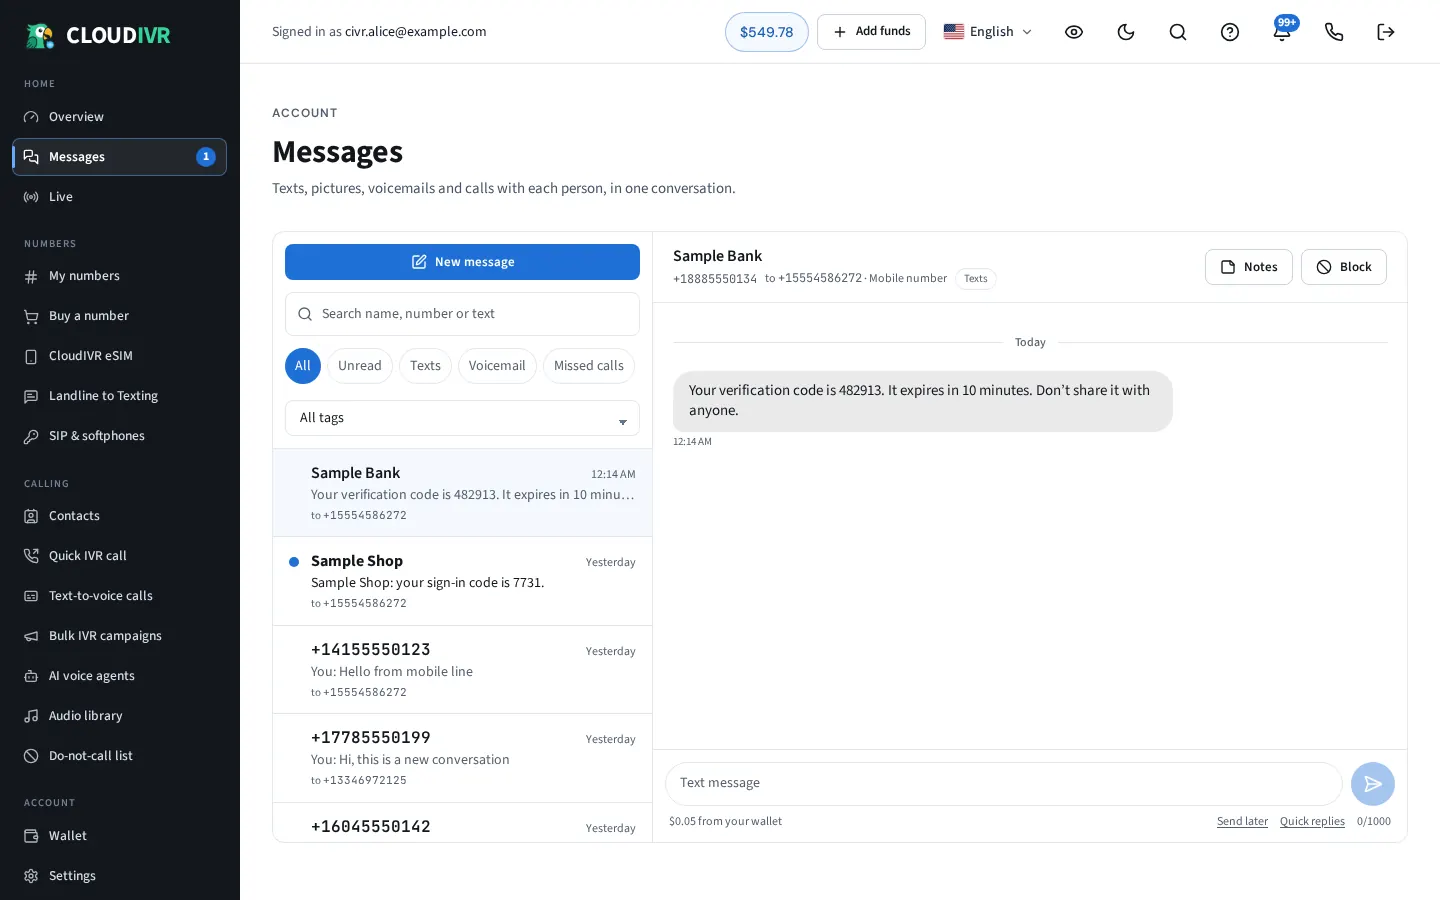
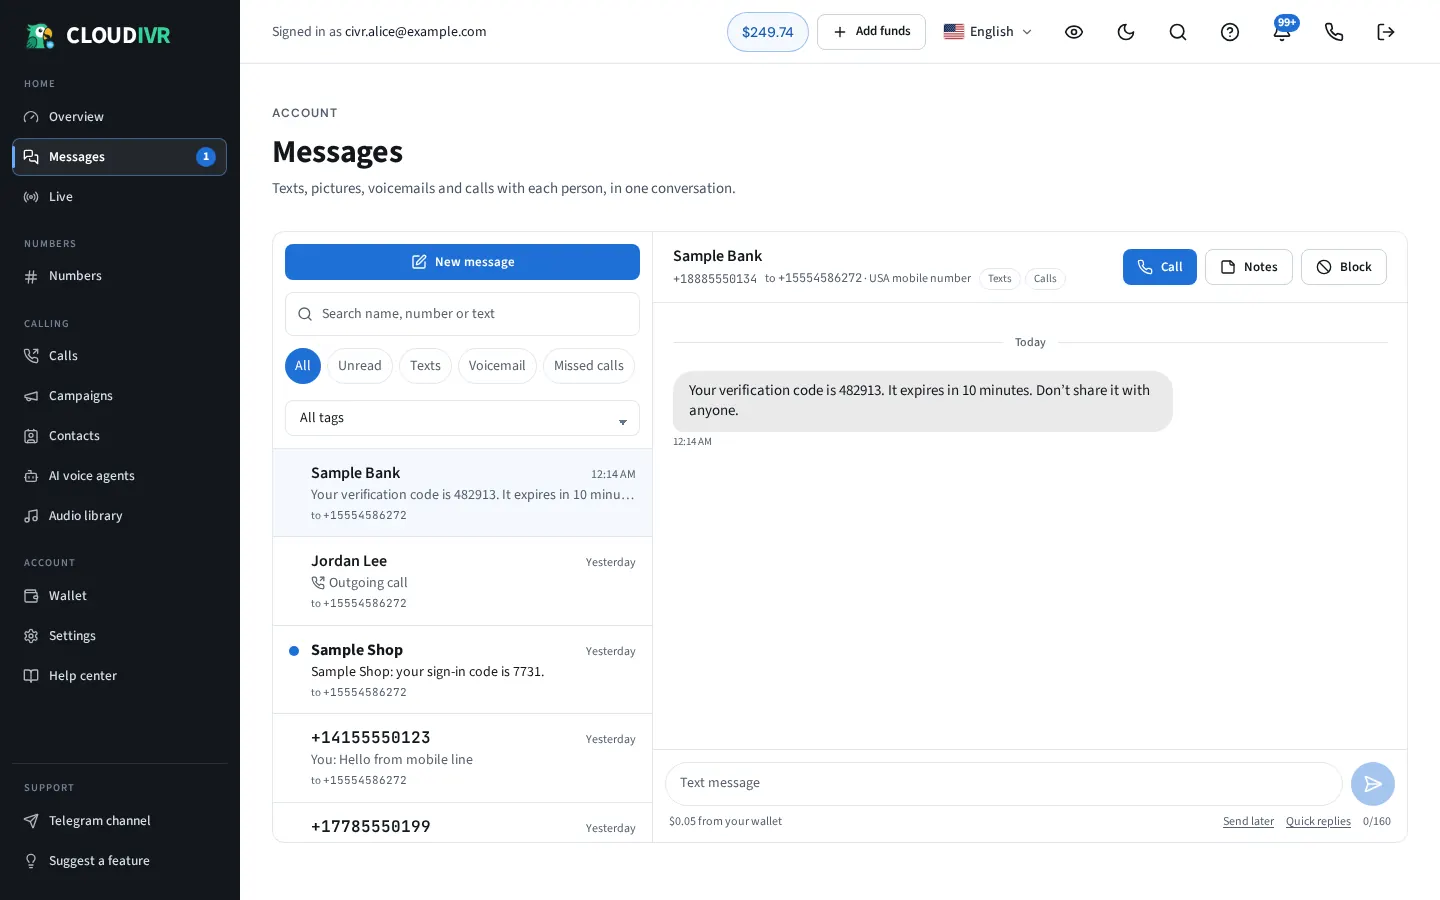
## Texts are now capped at one SMS, and the landing page is cleaner (preview)
- **Text length:** every text CloudIVR sends is intended to be limited to one standard SMS: 160 characters, or 70 when it has emoji or special scripts.
  - This covers the USA mobile number, calling-number and Landline-to-Texting replies, scheduled texts, IVR "text the caller" messages and AI suggested replies.
  - The counter shows N/160 (or N/70) and turns red when the text is too long, blocking sending until it's shortened.
  - Curly quotes, long dashes and "…" (which phones add on their own) are sent as plain characters, helping avoid dropping the limit to 70.
- **Landing page:** I have made improvements by removing repeated elements:
  - The separate USA eSIM / USA mobile number / Business calling links from the top menu (since they're included in the Products menu)
  - The second eSIM section, "Three ways to reach your customers" section and the "Pick your situation" section
  - Overview and Keypad menu screenshots from the "after you order" gallery, as the business section already shows them
  - Duplicate links on the phone menu
  - Retook the app screenshot of Messages which now shows 0/160.
- **Testing:** I have conducted automated checks which passed fully on both server and screens. The follow-up fixes, including punctuation handling, the phone menu, smaller gallery and new screenshot, have been verified as well. Line breaks in scheduled texts are being kept.
[…]

diff --git a/frontend/src/cloudivr/pages/landing/Nav.js b/frontend/src/cloudivr/pages/landing/Nav.js
@@ -11,7 +11,7 @@ import { PRODUCTS, USE_CASES, goTo, hrefOf } from './menu';
 
 export const LANDING_LINKS = [['#esim-card', 'USA eSIM', 'esim'], ['#mobile', 'USA mobile number', 'mobile'], ['#business', 'Business calling', 'business'], ['#pricing', 'Pricing', 'pricing'], ['#faq', 'Help', 'faq']];
 // Products mega menu groups (ids from menu.js PRODUCTS).
-const GROUPS = [['Calling & IVR', ['numbers', 'ivr', 'campaigns', 'phone', 'ai', 'text', 'inbox'], 'calling'], ['Texting', ['hosted'], 'texting'], ['USA eSIM & mobile number', ['esim', 'mobile'], 'mobile']];
+const GROUPS = [['Calling & IVR', ['numbers', 'ivr', 'campaigns', 'phone', 'ai', 'text', 'inbox'], 'calling'], ['Texting & mobile', ['esim', 'mobile', 'hosted'], 'mobile']];
 const MENUS = [['products', 'Products', PRODUCTS], ['usecases', 'Use cases', USE_CASES]];
 
 function Item({ it, onPick, testid }) {
@@ -57,7 +57,7 @@ function MobileMenu({ catalog, onClose, account }) {
     <div className="lg:hidden fixed inset-x-0 top-16 bottom-0 z-[45] bg-white text-slate-900 overflow-y-auto civr-l-swap" data-testid="landing-mobile-menu">
       <div className="px-4 sm:px-6 py-6 flex flex-col gap-8">
         <div className="flex flex-col border-b border-slate-200 pb-4">
-          {[...LANDING_LINKS, ['#try', 'Free test call', 'try']].map(([href, label, id]) => <a key={id} href={href} onClick={(e) => { goTo(href, e); onClose(); }} className="px-3 py-3 text-base font-medium text-slate-700" data-testid={`mobile-menu-link-${id}`}>{label}</a>)}
+          {[...LANDING_LINKS.filter(([, , id]) => id !== 'esim' && id !== 'mobile'), ['#try', 'Free test call', 'try']].map(([href, label, id]) => <a key={id} href={href} onClick={(e) => { goTo(href, e); onClose(); }} className="px-3 py-3 text-base font-medium text-slate-700" data-testid={`mobile-menu-link-${id}`}>{label}</a>)}
         </div>
         {MENUS.map(([id, label, items]) => (
           <div key={id}>

diff --git a/js/cloudivr-web/sms-limit.js b/js/cloudivr-web/sms-limit.js
@@ -3,9 +3,12 @@
 // scripts). The GSM extension characters (^{}\[~]|€) count as 2.
 const GSM = new Set('@£$¥èéùìòÇ\nØø\rÅåΔ_ΦΓΛΩΠΨΣΘΞÆæßÉ !"#¤%&\'()*+,-./0123456789:;<=>?¡ABCDEFGHIJKLMNOPQRSTUVWXYZÄÖÑÜ§¿abcdefghijklmnopqrstuvwxyzäöñüà')
 const EXT = new Set('^{}\\[~]|€')
+// Phones insert smart punctuation; swap it for the plain GSM version so the text still fits 160.
+const SMART = { '‘': "'", '’': "'", '‚': "'", '′': "'", '“': '"', '”': '"', '„': '"', '″': '"', '–': '-', '—': '-', '−': '-', '…': '...', '\u00a0': ' ', '\u2009': ' ', '\u200b': '' }
+const gsmText = (t) => String(t || '').replace(/[‘’‚′“”„″–—−…\u00a0\u2009\u200b]/g, (c) => SMART[c])
 
 function smsInfo(text) {
-  const s = String(text || '')
+  const s = gsmText(text)
   let units = 0, gsm = true
   for (const ch of s) {
     if (GSM.has(ch)) units += 1
@@ -28,4 +31,4 @@ function fitSms(text) {
   return s
 }
 
-module.exports = { smsInfo, smsTooLong, fitSms }
+module.exports = { smsInfo, smsTooLong, fitSms, gsmText }

diff --git a/frontend/src/cloudivr/pages/landing/Showcase.js b/frontend/src/cloudivr/pages/landing/Showcase.js
@@ -1,14 +1,12 @@
 import React, { useState } from 'react';
-import { MessageSquareText, Hash, Smartphone, LayoutGrid, LayoutDashboard } from 'lucide-react';
+import { MessageSquareText, Hash, Smartphone } from 'lucide-react';
 import { Reveal } from './kit';
 
 const SHOT = (n, v) => `${process.env.PUBLIC_URL || ''}/cloudivr/shots/${n}-${v}.webp`;
 const SHOTS = [
-  ['messages', MessageSquareText, 'Messages', 'Codes and texts arrive in one inbox, in any browser.'],
+  ['messages', MessageSquareText, 'Messages', 'Two-way texts arrive in one inbox, in any browser.'],
   ['numbers', Hash, 'My numbers', 'Your USA mobile number, renewal and replacement in one place.'],
   ['esim', Smartphone, 'eSIM', 'The QR code to install your eSIM, plus plan and renewal.'],
-  ['ivr', LayoutGrid, 'Keypad menu', 'Callers press a key to reach a person, a message or a text.'],
-  ['overview', LayoutDashboard, 'Overview', 'Wallet, numbers and recent activity at a glance.'],
 ];
 
 // Real light-mode screenshots of the app (sample data); phones get the phone-sized capture.

diff --git a/frontend/src/cloudivr/smsLimit.js b/frontend/src/cloudivr/smsLimit.js
@@ -1,9 +1,12 @@
 // Same rule as the server (js/cloudivr-web/sms-limit.js): 160 GSM-7 characters per text, or 70 with emoji/Unicode.
 const GSM = new Set('@£$¥èéùìòÇ\nØø\rÅåΔ_ΦΓΛΩΠΨΣΘΞÆæßÉ !"#¤%&\'()*+,-./0123456789:;<=>?¡ABCDEFGHIJKLMNOPQRSTUVWXYZÄÖÑÜ§¿abcdefghijklmnopqrstuvwxyzäöñüà');
 const EXT = new Set('^{}\\[~]|€');
+// Smart punctuation is sent as the plain GSM version (the server does the same), so it still fits 160.
+const SMART = { '‘': "'", '’': "'", '‚': "'", '′': "'", '“': '"', '”': '"', '„': '"', '″': '"', '–': '-', '—': '-', '−': '-', '…': '...', '\u00a0': ' ', '\u2009': ' ', '\u200b': '' };
+const gsmText = (t) => String(t || '').replace(/[‘’‚′“”„″–—−…\u00a0\u2009\u200b]/g, (c) => SMART[c]);
 
 export function smsInfo(text) {
-  const s = String(text || '');
+  const s = gsmText(text);
   let units = 0;
   for (const ch of s) {
     if (GSM.has(ch)) units += 1;

diff --git a/js/cloudivr-web/messages-extra.js b/js/cloudivr-web/messages-extra.js
@@ -1,5 +1,5 @@
 'use strict'
-const { smsTooLong, fitSms } = require('./sms-limit')
+const { smsTooLong, fitSms, gsmText } = require('./sms-limit')
 // Messages extras: contact notes + tags, scheduled texts, and AI summaries with suggested replies on long conversations.
 const axios = require('axios')
 const crypto = require('crypto')
@@ -57,7 +57,7 @@ function create({ db, M, log = console.log }) {
     const t = await M.thread(chatId, number, contact)
     if (!t) return { error: 'Conversation not found.' }
     if (!t.canText || t.blocked) return { error: 'You can’t text this contact from here.' }
-    const body = String(text || '').replace(/\s+/g, ' ').trim()
+    const body = gsmText(String(text || '')).replace(/[^\S\n]+/g, ' ').trim()
     if (!body && !media.length) return { error: 'Type a message.' }
     const long = smsTooLong(body)
     if (long) return { error: long }

diff --git a/js/hosted-sms.js b/js/hosted-sms.js
@@ -434,7 +434,7 @@ async function sendText(chatId, id, to, text) {
   return { error: 'This number receives texts only. Your customers text it and you read them here.', code: 'receive_only' }
   if (d.status !== 'active') return { error: d.status === 'paused' ? (d.planNumber ? `Texting is paused because the plan on ${d.planNumber} isn’t active. Renew the plan and it turns back on.` : `Texting is paused — the $${monthlyOf(d)} monthly fee is due. Top up your wallet.`) : 'This number isn’t active for texting yet.' }
   const dest = normPhone(to)
-  const body = String(text || '').trim()
+  const body = require('./cloudivr-web/sms-limit').gsmText(String(text || '').trim())
   if (!E164.test(dest)) return { error: 'Enter the number to text with its country code.' }
   if (!body) return { error: 'Type a message.' }
   const long = require('./cloudivr-web/sms-limit').smsTooLong(body)

diff --git a/js/spenza.js b/js/spenza.js
@@ -430,7 +430,7 @@ async function sendSms(chatId, id, to, text) {
   const d = await mine(chatId, id)
   if (d && d.kind !== 'mobile') return { error: 'Texts from a QR eSIM are sent from your phone, not from CloudIVR.' }
   if (!d || d.status !== 'active' || !d.phoneNumber) return { error: 'This number can’t send texts right now.' }
-  const dest = String(to || '').replace(/[^\d+]/g, ''), body = String(text || '').trim()
+  const dest = String(to || '').replace(/[^\d+]/g, ''), body = require('./cloudivr-web/sms-limit').gsmText(String(text || '').trim())
   const long = require('./cloudivr-web/sms-limit').smsTooLong(body)
   if (long) return { error: long }
   if (!/^\+1[2-9]\d{2}[2-9]\d{6}$/.test(dest)) return { error: 'Texts can go to USA numbers: enter +1 and the 10-digit number.' }

diff --git a/js/cloudivr-web/numbers.js b/js/cloudivr-web/numbers.js
@@ -191,7 +191,7 @@ function validateIvr(body, plan, audioOk = () => true) {
         out[digit] = { action, message: String(o.message || '').slice(0, 1000), audioUrl: audio(o.audioUrl, `Key ${digit}`), label }
       } else if (action === 'sms') {
         const smsFrom = String(o.smsFrom || '')
-        const smsText = String(o.smsText || '').trim().slice(0, 1000)
+        const smsText = require('./sms-limit').gsmText(String(o.smsText || '').trim()).slice(0, 1000)
         if (!/^(es|mn)_[0-9a-f]+$/.test(smsFrom)) throw new Error(`Key ${digit}: pick the number the text is sent from.`)
         if (!smsText) throw new Error(`Key ${digit}: write the text to send.`)
         const long = require('./sms-limit').smsTooLong(smsText)

diff --git a/scripts/clean_test_texts.js b/scripts/clean_test_texts.js
@@ -1,0 +1,13 @@
+// Removes tester-made texts (TEST_ prefix) from Alice's sample data so landing screenshots stay clean.
+require('dotenv').config({ path: '/app/backend/.env' })
+const { MongoClient } = require('mongodb')
+;(async () => {
+  const c = await MongoClient.connect(process.env.MONGO_URL); const db = c.db(process.env.DB_NAME)
+  for (const n of await db.listCollections().toArray()) {
+    for (const f of ['text', 'body', 'message', 'Message_Body']) {
+      const r = await db.collection(n.name).deleteMany({ [f]: { $regex: '^TEST_' } }).catch(() => ({ deletedCount: 0 }))
+      if (r.deletedCount) console.log(n.name, f, r.deletedCount)
+    }
+  }
+  await c.close(); process.exit(0)
+})()

diff --git a/js/cloudivr-web/sms-reply.js b/js/cloudivr-web/sms-reply.js
@@ -122,7 +122,7 @@ function createSmsReply({ db, voiceService, log = console.log }) {
 
   // → { log } | { error: [status, code, message] }
   async function send({ chatId, num, to, text, simulated = false, replyTo = null, inboxId = null, media = [] }) {
-    const body = clean(text)
+    const body = require('./sms-limit').gsmText(clean(text))
     if (!body && !media.length) return { error: [400, 'empty', 'Type a reply or pick one.'] }
     if (media.length && !canMms(num)) return { error: [400, 'no_mms', 'This number can’t send pictures.'] }
     const long = require('./sms-limit').smsTooLong(body)

diff --git a/backend/tests/test_cloudivr_iter203_sms_limit.py b/backend/tests/test_cloudivr_iter203_sms_limit.py
@@ -1,0 +1,99 @@
+# Iteration 203: one-SMS length limit (160 GSM-7 / 70 Unicode) on messages send, schedule, thread maxLength, IVR keypad text
+import os
+import subprocess
+from datetime import datetime, timedelta, timezone
+import pytest
+import requests
+from dotenv import dotenv_values
+from pymongo import MongoClient
+
+FE_ENV = dotenv_values('/app/frontend/.env')
+BASE_URL = (os.environ.get('REACT_APP_BACKEND_URL') or FE_ENV['REACT_APP_BACKEND_URL']).rstrip('/')
+API = f"{BASE_URL}/api/cloudivr-web"
+BE_ENV = dotenv_values('/app/backend/.env')
+DB = MongoClient(BE_ENV['MONGO_URL'])[BE_ENV['DB_NAME']]
+ALICE = {"email": "civr.alice@example.com", "password": "AliceTest#2026"}
+MOBILE = "+15554586272"     # Alice USA mobile number (esim kind mobile)
+BIZ = "+13346972125"        # Alice Business dry-run number
+CONTACT = "+14155550123"
+
+
+@pytest.fixture(scope="module")
+def s():
+    ses = requests.Session()
+    r = ses.post(f"{API}/auth/login", json=ALICE)
+    if r.status_code != 200:
+        pytest.skip(f"login failed {r.status_code}")
+    return ses
+
+
+# ---- unit: sms-limit module ----
+def test_unit_sms_limit():
+    out = subprocess.run(["node", "-e", "const s=require('/app/js/cloudivr-web/sms-limit');console.log(JSON.stringify([s.smsTooLong('a'.repeat(160)), s.smsTooLong('a'.repeat(161)), s.smsTooLong('😀'+'a'.repeat(68)), s.smsTooLong('😀'+'a'.repeat(69)), s.smsTooLong('é'.repeat(80)+'ñ'.repeat(80)), s.smsTooLong('{'.repeat(80)), s.smsTooLong('{'.repeat(81)), s.fitSms('😀'+'a'.repeat(200)).length]))"], capture_output=True, text=True)
+    import json
+    a = json.loads(out.stdout)
+    assert a[0] is None
+    assert "Keep it to 160" in a[1] and "161" in a[1]
+    assert a[2] is None
+    assert "Keep it to 70" in a[3] and "71" in a[3]
+    assert a[4] is None
+    assert a[5] is None and a[6] and "162" in a[6]
+    assert a[7] == 70
+
+
+# ---- thread maxLength ----
+def test_thread_maxlength(s):
+    r = s.get(f"{API}/messages/thread", params={"number": MOBILE, "contact": CONTACT})
+    assert r.status_code == 200, r.text
+    assert r.json()["maxLength"] == 160
+
+
+# ---- send validation (mobile/esim path + business/sms-reply path) ----
+@pytest.mark.parametrize("number", [MOBILE, BIZ])
+def test_send_161_rejected(s, number):
+    r = s.post(f"{API}/messages/send", json={"number": number, "contact": CONTACT, "text": "a" * 161})
+    assert r.status_code == 400, r.text
+    assert "Keep it to 160 characters" in r.text
+
+
+@pytest.mark.parametrize("number", [MOBILE, BIZ])
+def test_send_emoji_71_rejected(s, number):
+    r = s.post(f"{API}/messages/send", json={"number": number, "contact": CONTACT, "text": "😀" + "a" * 69})
+    assert r.status_code == 400, r.text
+    assert "Keep it to 70 characters" in r.text
+
+
+@pytest.mark.parametrize("number", [MOBILE, BIZ])
+def test_send_160_ok(s, number):
+    r = s.post(f"{API}/messages/send", json={"number": number, "contact": CONTACT, "text": "TEST_iter203 " + "b" * 147})
+    assert "Keep it to" not in r.text, r.text
+    print(number, r.status_code, r.text[:200])
+
+
+# ---- schedule ----
+def test_schedule_limits(s):
+    at = (datetime.now(timezone.utc) + timedelta(days=1)).isoformat()
+    r = s.post(f"{API}/messages/schedule", json={"number": MOBILE, "contact": CONTACT, "text": "a" * 161, "sendAt": at})
+    assert r.status_code == 400 and "Keep it to 160" in r.text, r.text
+    r = s.post(f"{API}/messages/schedule", json={"number": MOBILE, "contact": CONTACT, "text": "😀" + "a" * 69, "sendAt": at})
+    assert r.status_code == 400 and "Keep it to 70" in r.text, r.text
+    r = s.post(f"{API}/messages/schedule", json={"number": MOBILE, "contact": CONTACT, "text": "a" * 160, "sendAt": at})
+    assert r.status_code == 200, r.text
+    DB.webScheduledTexts.delete_many({"text": "a" * 160}) if "webScheduledTexts" in DB.list_collection_names() else None
+    sid = (r.json().get("scheduled") or r.json()).get("id") or (r.json().get("scheduled") or r.json()).get("_id")
+    if sid:
+        s.delete(f"{API}/messages/schedule/{sid}")
+
+
+# ---- IVR keypad text ----
+def test_ivr_sms_too_long(s):
+    line = DB.esimLines.find_one({"kind": "mobile", "chatId": "5000000000000001"})
+    if not line:
+        pytest.skip("no mobile line")
+    body = {"enabled": False, "greeting": "Hi", "options": {"3": {"action": "sms", "smsFrom": line["_id"], "smsText": "x" * 200}}}
+    r = s.put(f"{API}/numbers/{BIZ}/ivr", json=body)
+    assert r.status_code == 400, r.text
+    assert "Key 3: Keep it to 160 characters" in r.text
+    body["options"]["3"]["smsText"] = "😀" + "x" * 80
+    r = s.put(f"{API}/numbers/{BIZ}/ivr", json=body)
+    assert r.status_code == 400 and "Key 3: Keep it to 70" in r.text, r.text

diff --git a/scripts/landing_shots.py b/scripts/landing_shots.py
@@ -33,7 +33,7 @@ async def main():
             await pg.goto(BASE + '/login', wait_until='load'); await pg.wait_for_timeout(2000)
             await pg.fill('input[type=email]', 'civr.alice@example.com'); await pg.fill('input[type=password]', 'AliceTest#2026'); await pg.keyboard.press('Enter')
             await pg.wait_for_timeout(4000)
-            for name, path, scroll, click in PAGES:
+            for name, path, scroll, click in [x for x in PAGES if not os.environ.get('ONLY') or x[0] in os.environ['ONLY'].split(',')]:
                 for _ in range(3):
                     try: await pg.goto(BASE + path, wait_until='load'); break
                     except Exception: await pg.wait_for_timeout(1500)
